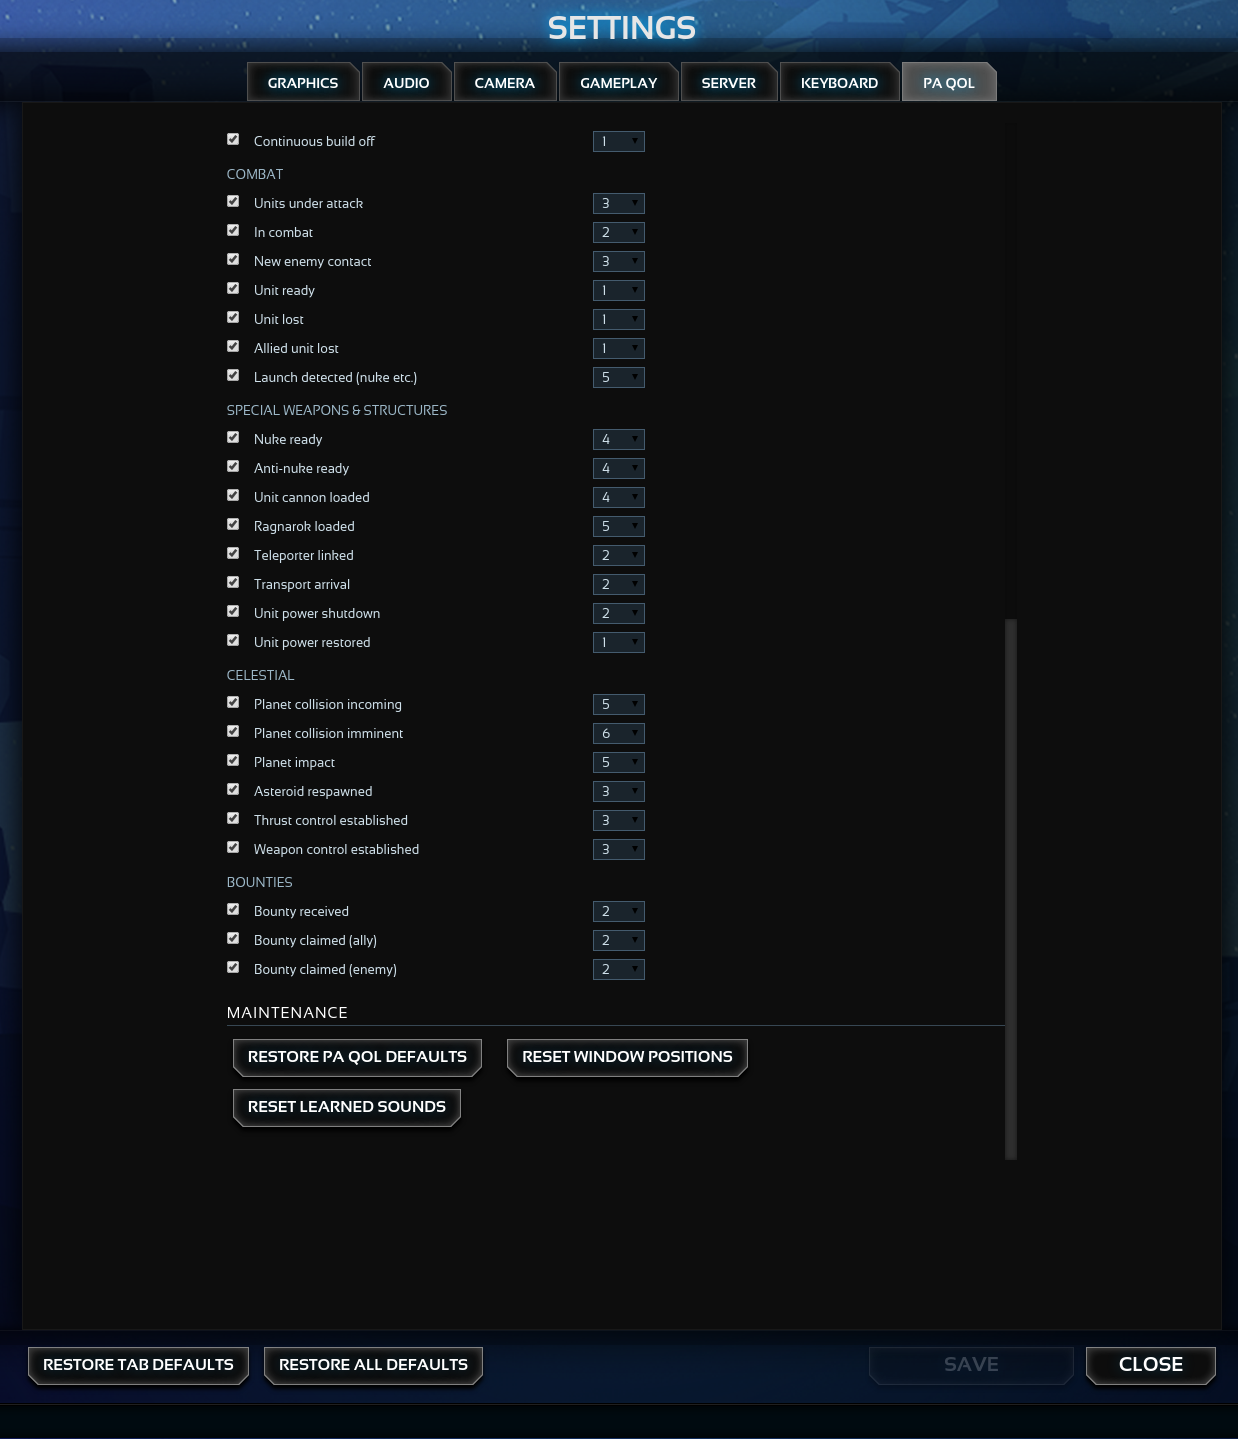
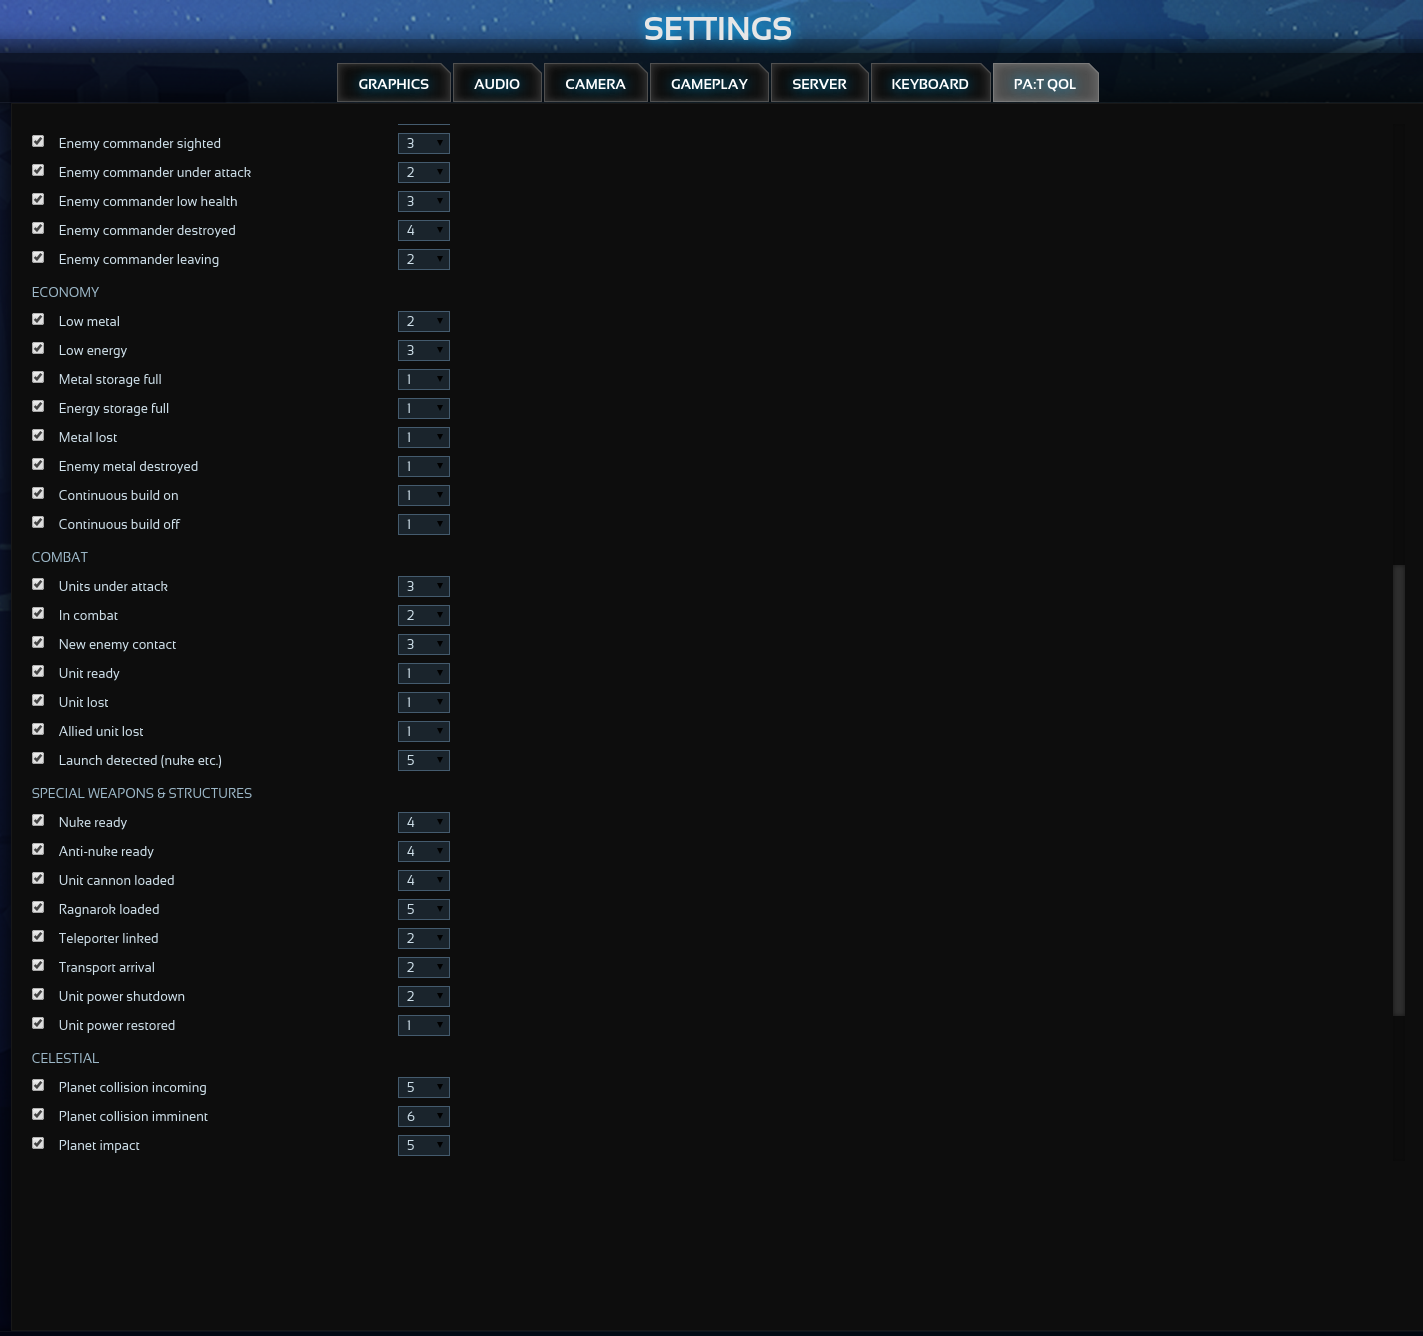
docs: bring README and docs in line with the 0.3.0 setup
- feature bullets cover priority decay, coalescing/ping exemption, all ten
  target categories with per-category toggles
- architecture.md: current layout (panels/, qol_windows, audio.js shadow),
  boot-bundle fact, player_data pull, wheel consumption, decay lever
- manual-test-checklist: per-category toggle test, wheel test, spikes
  converted to resolved answers
- remaining PA QoL -> PA:T QoL name mentions

diff --git a/docs/architecture.md b/docs/architecture.md
@@ -1,8 +1,9 @@
-# PA QoL — architecture
+# PA:T QoL — architecture
 
 Client mod, identifier `com.lem0.pat-qol`. The repo root is the mod root:
-`modinfo.json` and `ui/` sit at the top so a single symlink into
-`client_mods/` works and the release ZIP is `zip modinfo.json ui`.
+`modinfo.json` and `ui/` sit at the top and the release ZIP is
+`zip modinfo.json ui`. (PA's VFS does not follow symlinks — dev installs
+copy via `tools/install-copy.sh`.)
 
 ## Layout
 
@@ -10,12 +11,22 @@ Client mod, identifier `com.lem0.pat-qol`. The repo root is the mod root:
 ui/mods/com.lem0.pat-qol/
 ├── core/       scene-glue: namespace, logger, invariants, safeWrap,
 │               feature registry, localStorage store, cross-panel bus,
-│               game clock, constants reverse-maps, floating panel widget
+│               constants reverse-maps
 ├── shared/     PURE logic — no DOM, no PA globals. Every file has a
 │               module.exports tail guard and is tested by node --test.
-├── features/   one directory per feature
+├── features/   notify_priority (audio arbiter + defaults/stores),
+│               qol_windows (panel host), settings_tab
+├── panels/     window.html/.js/.css — the floating-window PAGE, composited
+│               by the engine; one page serves both windows (role from
+│               api.Panel.pageName). Loads its scripts itself via <script>
+│               tags incl. bundle://boot/boot.js (the engine does NOT
+│               auto-inject the UI framework).
 └── scenes/     one boot file per scene; claims the scene guard and runs
                 the registry
+
+ui/main/game/live_game/js/audio.js   the mod's ONLY base-file shadow: makes
+                                     the vanilla 30 s voice-priority decay
+                                     configurable. Re-diff after PA patches.
 ```
 
 ## The registry
@@ -47,13 +58,15 @@ world input.
 Therefore each QoL window is its **own small `<panel>`**, created dynamically
 by `features/qol_windows/host.js` and bound with `api.Panel.bindElement`.
 
-## Data flow (v0.2)
+## Data flow
 
 ```
 engine broadcasts                    panels/window.html × 2
-(watch_list / custom_alert / time    ('paqol_history', 'paqol_hvt' — role from
- go to EVERY view declaring the       api.Panel.pageName; content, rows,
- handler in api.Panel.ready)  ──────▶ camera-jump live here)
+(watch_list / custom_alert / time /  ('paqol_history', 'paqol_hvt' — role from
+ player_data go to EVERY view         api.Panel.pageName; content, rows,
+ declaring the handler in             camera-jump live here; roster also
+ api.Panel.ready)             ──────▶ PULLED once at boot — the first
+                                      player_data broadcast races page load)
                                               ▲ 'paqol_event', 'paqol_state'
 live_game (features/qol_windows/host.js)      │
   creates the <panel> elements ───────────────┘
@@ -77,9 +90,12 @@ in live_game AND live_game_unit_alert (two independent audio queues).
 - Settings are shared through `localStorage` (one origin for all
   `coui://ui/...` scenes). The live scenes re-read config at most every 2 s
   (`store.reload`).
-- Window pages load their scripts via their own `<script>` tags (the engine's
-  `boot.json` gives every view jQuery/ko/lodash/api); only scene pages use
-  the modinfo `scenes` map.
+- Window pages load their scripts via their own `<script>` tags, **starting
+  with `bundle://boot/boot.js`** — the engine does NOT auto-inject the UI
+  framework into panel views; every PA page pulls it in explicitly. Only
+  scene pages use the modinfo `scenes` map.
+- Mousewheel over the windows is consumed by the page (scrolls the list);
+  an unconsumed wheel event would be forwarded to the game as camera zoom.
 
 ## Persistence
 
@@ -93,7 +109,7 @@ History rows are **never** persisted — in-memory ring only.
 
 ## Audio arbiter (notify_priority)
 
-Two levers, no shadowed files:
+Two wrap-based levers plus one shadowed constant:
 
 1. Wrap `audioModel.processEvent` (the single choke point every notification
    funnels through). Disabled events are dropped; a lower-priority line inside
@@ -105,6 +121,12 @@ Two levers, no shadowed files:
    is delegating, and drop later-queued cues positively known to belong to a
    disabled event. Never suppresses an unlearned cue. `api.audio.playSound`
    (UI click/rollover) is deliberately untouched.
+
+3. Shadowed `ui/main/game/live_game/js/audio.js`: the vanilla **priority
+   decay** (30 s per level after a line plays — closure-private, no wrap
+   point exists) reads `paqol.audioDecayMs` lazily instead; default 3000,
+   user-settable, 30000 restores vanilla. One marked change; re-diff after
+   every PA patch.
 
 Registered in both `live_game` and `live_game_unit_alert` — each scene loads
 its own copy of `js/audio.js` (two independent queues), matching the base game.

diff --git a/README.md b/README.md
@@ -1,4 +1,4 @@
-# PA QoL
+# PA:T QoL
 
 Quality-of-life client mod for **Planetary Annihilation: TITANS**.
 Identifier `com.lem0.pat-qol`, tested against build 124667.
@@ -16,17 +16,21 @@ Identifier `com.lem0.pat-qol`, tested against build 124667.
 
 - **Notification priority** — enable/disable any voice notification and give
   it a priority (0–6). A "metal storage full" line can no longer stomp
-  "commander under attack". Visual alerts are untouched; only audio is gated,
-  and every unknown case fails open (vanilla behaviour).
+  "commander under attack", and the vanilla 30-second priority decay (which
+  let one alarm mute lower-priority lines for minutes) defaults to 3 s.
+  Visual alerts are untouched; only audio is gated, and every unknown case
+  fails open (vanilla behaviour).
 - **Notification history** — a movable, resizable window with every
   notification of the match, stamped with game time, newest first. Click a
-  row to jump the camera to where it happened. Unlike the stock 5-slot strip,
-  nothing expires after 10 seconds and alerts that arrive while you are
+  row to jump the camera to where it happened. Repeats within 15 s coalesce
+  into one ×N row (pings exempt — every ping stays its own row). Unlike the
+  stock 5-slot strip, nothing expires and alerts that arrive while you are
   alt-tabbed are kept.
 - **Enemy targets** — a movable, resizable window listing every spotted enemy
-  high-value target: commanders, Titans, nuke launchers, anti-nukes, unit
-  cannons, Catalysts, Halleys (teleporters opt-in). Click to jump there.
-  Entries disappear on confirmed kill and dim when the sighting is stale.
+  high-value target: commanders, Colonels, Angels, Titans, nuke launchers,
+  anti-nukes, unit cannons, Catalysts, Halleys and teleporters — each
+  category individually toggleable. Click to jump there. Entries disappear on
+  confirmed kill and dim when the sighting is stale.
 
 Configure everything under **Settings → PA:T QOL** (works from the main menu
 and in-game). Window layout changes apply at the start of the next game.
@@ -88,7 +92,7 @@ maintenance actions:
 
    Use real folders — PA does not follow symlinks.
 
-3. Start PA:TITANS, open **Community Mods → Installed**, enable **PA QoL**
+3. Start PA:TITANS, open **Community Mods → Installed**, enable **PA:T QoL**
    (click *reload filesystem mods* if it is not listed), then restart the
    game. Mods mount at startup.
 
@@ -109,7 +113,7 @@ tools/install-copy.sh        # rsyncs the runtime files into PA's client_mods/
 (`tools/install-symlink.sh` exists but PA's VFS does not follow symlinks —
 verified on this setup — so the copy script is the working dev loop.)
 
-Then enable **PA QoL** under Community Mods → Installed and restart PA.
+Then enable **PA:T QoL** under Community Mods → Installed and restart PA.
 Client mods mount at boot; there is no reliable hot reload — restart after
 every change.
 

diff --git a/docs/manual-test-checklist.md b/docs/manual-test-checklist.md
@@ -41,14 +41,17 @@ panel context (Coherent debugger, `--coherent_port=9999`).
 ## D. Enemy targets
 
 13. Scout an enemy nuke launcher, anti-nuke, unit cannon, each Titan,
-    commander, Catalyst, Halley → each appears once, correctly categorised.
+    commander, Colonel, Angel, Catalyst, Halley, teleporter → each appears
+    once, correctly categorised, ordered commander-role first.
 14. Kill each one → the entry disappears.
 15. Re-sight a previously seen unit → no duplicate; "last seen" updates;
     unseen-for-5-min entries dim.
 16. Own/allied units never appear.
-17. Enable "also track teleporters..." → teleporters appear next game;
-    disable → back to baseline; check the stock alert strip is not flooded.
-18. Click an entry → camera jumps.
+17. Disable a target category (Settings → Target window → Targets) → that
+    category stops appearing next game; the widened engine watch lists only
+    include enabled categories; the stock alert strip is not flooded.
+18. Click an entry → camera jumps. Mousewheel over either window scrolls the
+    list and does NOT zoom the game camera.
 
 ## E. Notification priority
 
@@ -84,14 +87,13 @@ panel context (Coherent debugger, `--coherent_port=9999`).
 32. Galactic War (`gw_play` → live game) → no errors.
 33. Disable the mod, restart → no residue; settings opens on a valid tab.
 
-## Open spikes (do these FIRST on a fresh install)
+## Resolved spikes (answers baked into the design)
 
-- **S1 — symlink**: after `tools/install-symlink.sh`, does PA list the mod
-  under Community Mods → Installed? If not, use `tools/install-copy.sh`.
-- **S2 — mouse capture**: drag inside a panel — camera must not pan, units
-  must not deselect underneath. If events leak, the floating-panel
-  `stopPropagation` list in `core/ui/floating_panel.js` needs widening.
-- **S3 — alert id stability**: scout then kill an enemy nuke launcher; the
-  HVT entry must disappear. If `alert.id` is not stable between sight and
-  death, switch `enemy_hvt` keying to `(planet_id, rounded location,
-  category)` — the change is contained in `feature.js`.
+- **S1 — symlink**: PA's VFS does NOT follow symlinks (`api.file.list` skips
+  them) — `tools/install-copy.sh` is the dev loop.
+- **S2 — mouse capture**: floating DOM inside `live_game` is never even
+  composited (coordinator page); windows are real `<panel>` views with
+  region-based input — drag/click containment is inherent. Wheel events must
+  be consumed by the page or they zoom the camera (handled in window.js).
+- **S3 — alert id stability**: confirmed stable — sight and death alerts for
+  the same unit share `alert.id`; the target window keys on it.
